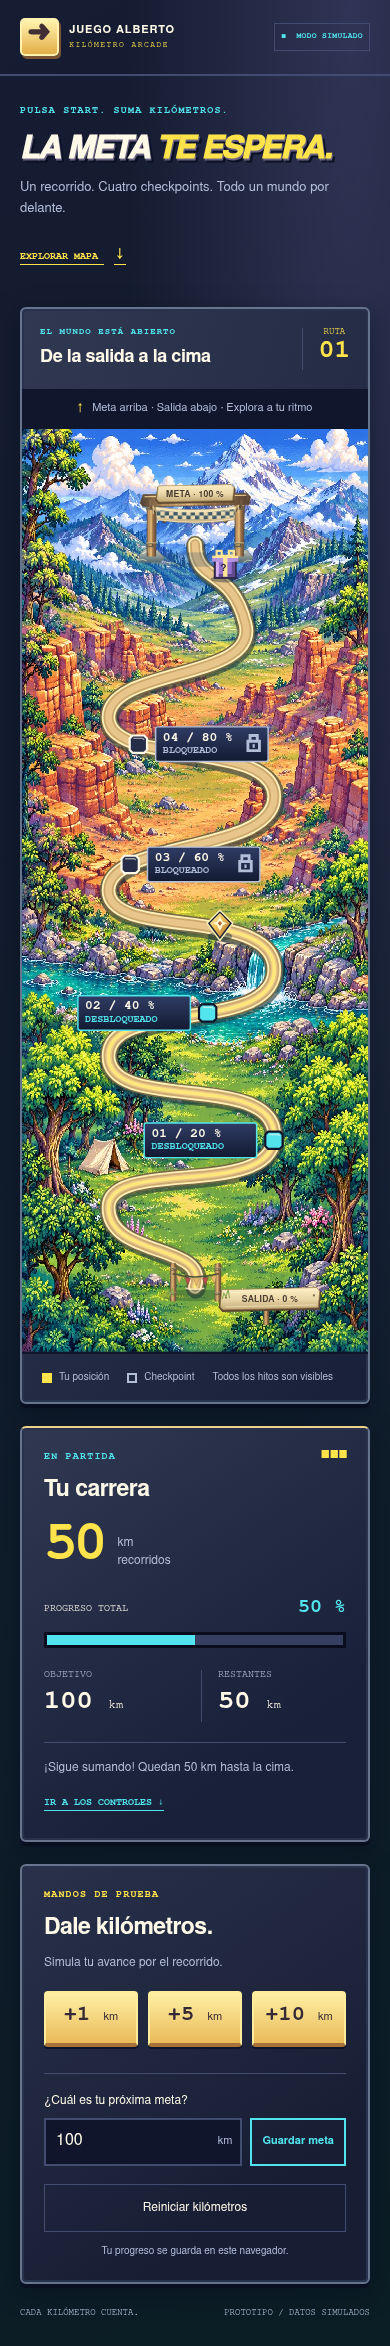
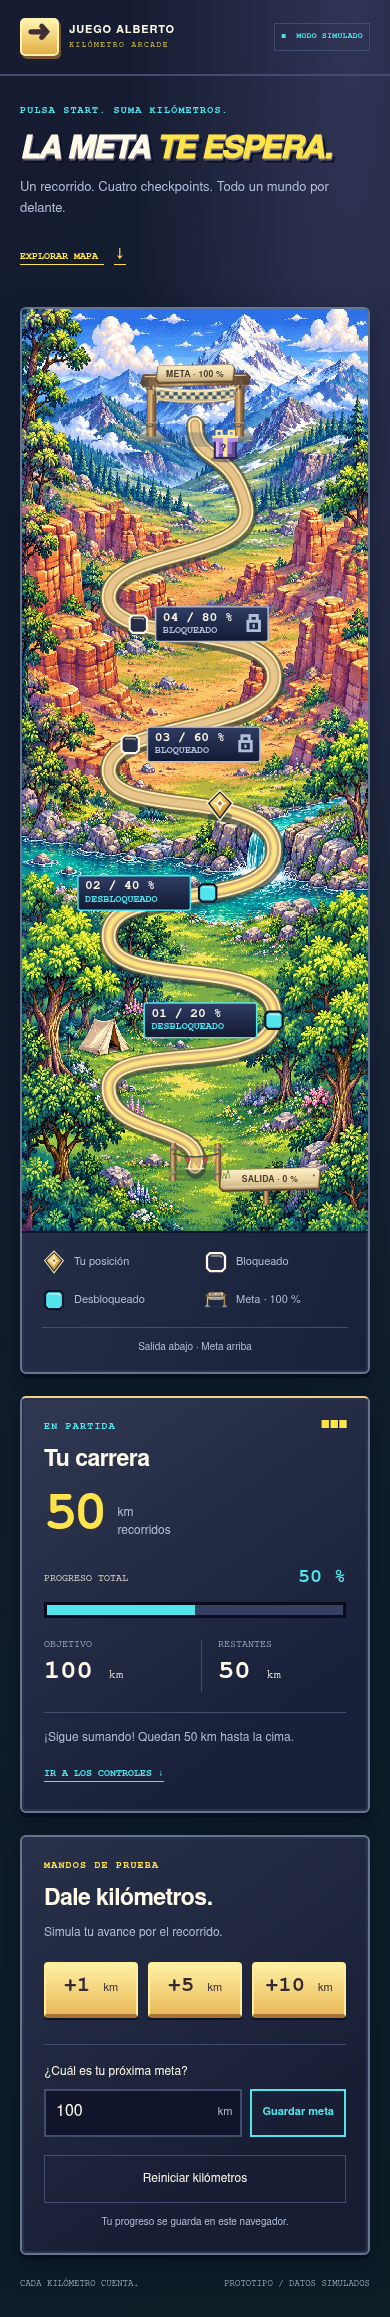
fix: remove map header and align legend with map symbols

diff --git a/frontend/index.html b/frontend/index.html
@@ -17,11 +17,9 @@
     <span class="mode"><span aria-hidden="true">■</span> MODO SIMULADO</span>
   </header>
   <main id="adventure" tabindex="-1">
-    <div class="intro"><div><p class="eyebrow">PULSA START. SUMA KILÓMETROS.</p><h1>LA META <span>TE ESPERA.</span></h1><p>Un recorrido. Cuatro checkpoints. Todo un mundo por delante.</p></div><a class="explore-link" href="#map-heading">EXPLORAR MAPA <span aria-hidden="true">↓</span></a></div>
+    <div class="intro"><div><p class="eyebrow">PULSA START. SUMA KILÓMETROS.</p><h1>LA META <span>TE ESPERA.</span></h1><p>Un recorrido. Cuatro checkpoints. Todo un mundo por delante.</p></div><a class="explore-link" href="#map">EXPLORAR MAPA <span aria-hidden="true">↓</span></a></div>
     <div class="adventure-layout">
-      <section class="map-card" aria-labelledby="map-heading">
-        <div class="map-header"><div><p class="eyebrow">EL MUNDO ESTÁ ABIERTO</p><h2 id="map-heading" tabindex="-1">De la salida a la cima</h2></div><span class="map-badge">RUTA<br><strong>01</strong></span></div>
-        <div class="map-guide"><span aria-hidden="true">↑</span> Meta arriba · Salida abajo · Explora a tu ritmo</div>
+      <section id="map" class="map-card" aria-label="Mapa del recorrido" tabindex="-1">
         <svg class="map" viewBox="0 0 480 1280" role="img" aria-labelledby="map-title map-description">
           <title id="map-title">El mundo de Kilómetro Arcade</title>
           <desc id="map-description">Mapa vertical completo: salida en el bosque, río, cañón y montaña. Checkpoints al 20, 40, 60 y 80 por ciento y meta al 100 por ciento. El marcador indica tu posición; los hitos futuros están bloqueados.</desc>
@@ -36,6 +34,14 @@
             <pattern id="finish-weave" width="12" height="12" patternUnits="userSpaceOnUse"><rect width="12" height="12" fill="#e8d8af"/><path d="M0 0h6v6H0zM6 6h6v6H6z" fill="#405966"/><path d="M0 1h12M0 7h12" stroke="#fff5d6" stroke-opacity=".25" stroke-width=".7"/></pattern>
             <g id="timber-post"><path d="M-7 0 4-2 7 3 6 80H-7z" fill="url(#gate-timber)"/><path d="M-7 0 4-2 7 3 6 80H-7z" fill="url(#wood-grain)"/><path d="M-5 3v72" stroke="#f9d392" stroke-width="1" opacity=".65"/><path d="M-8 10H7m-15 4H7m-15 48H7m-15 4H7" stroke="#6a6350" stroke-width="2"/><path d="M-8 9H6m-14 52H6" stroke="#e1cf99" stroke-width="1"/><circle cx="1" cy="12" r="1" fill="#403a32"/><circle cx="1" cy="64" r="1" fill="#403a32"/></g>
             <g id="lock"><path d="M-5-3v-7H5v7M-8-2H8v13H-8z" fill="none" stroke="currentColor" stroke-width="4"/><path d="M0 2v5" stroke="currentColor" stroke-width="3"/></g>
+            <g id="position-symbol">
+              <ellipse cy="10" rx="17" ry="6" fill="#102c32" opacity=".45"/>
+              <path d="M0-26 18-8 0 16-18-8Z" fill="#182039" stroke="#fff2b5" stroke-width="2"/>
+              <path d="M0-22 14-8 0 11-14-8Z" fill="url(#gold-metal)"/>
+              <path d="M0-17 4-10 10-8 4-5 0 3-4-5-10-8-4-10Z" fill="#fff8d3"/>
+              <path d="M0-11 3-8 0-4-3-8Z" fill="#b06b38"/>
+            </g>
+            <g id="checkpoint-symbol"><path class="checkpoint-node" d="M-8-12H8l4 4V8l-4 4H-8l-4-4V-8z"/><path d="M-7-8H6l2 2" fill="none" stroke="#fff9e8" stroke-opacity=".55" stroke-width="2"/></g>
           </defs>
           <image href="./assets/world-16bit.webp" width="480" height="1280" preserveAspectRatio="none" aria-hidden="true"/>
           <g fill="none" stroke-linejoin="round" stroke-linecap="round" aria-hidden="true">
@@ -100,21 +106,23 @@
             </g>
           </g>
           <g id="checkpoints">
-            <g data-checkpoint="0.2" class="checkpoint"><path class="checkpoint-node" d="M-8-12H8l4 4V8l-4 4H-8l-4-4V-8z"/><path d="M-7-8H6l2 2" fill="none" stroke="#fff9e8" stroke-opacity=".55" stroke-width="2"/><g class="checkpoint-label"><rect width="156" height="48"/><text x="10" y="19">01 / 20 %</text><text class="checkpoint-state" x="10" y="36">BLOQUEADO</text><g class="checkpoint-lock" transform="translate(136 22)"><use href="#lock"/></g></g></g>
-            <g data-checkpoint="0.4" class="checkpoint"><path class="checkpoint-node" d="M-8-12H8l4 4V8l-4 4H-8l-4-4V-8z"/><path d="M-7-8H6l2 2" fill="none" stroke="#fff9e8" stroke-opacity=".55" stroke-width="2"/><g class="checkpoint-label"><rect width="156" height="48"/><text x="10" y="19">02 / 40 %</text><text class="checkpoint-state" x="10" y="36">BLOQUEADO</text><g class="checkpoint-lock" transform="translate(136 22)"><use href="#lock"/></g></g></g>
-            <g data-checkpoint="0.6" class="checkpoint"><path class="checkpoint-node" d="M-8-12H8l4 4V8l-4 4H-8l-4-4V-8z"/><path d="M-7-8H6l2 2" fill="none" stroke="#fff9e8" stroke-opacity=".55" stroke-width="2"/><g class="checkpoint-label"><rect width="156" height="48"/><text x="10" y="19">03 / 60 %</text><text class="checkpoint-state" x="10" y="36">BLOQUEADO</text><g class="checkpoint-lock" transform="translate(136 22)"><use href="#lock"/></g></g></g>
-            <g data-checkpoint="0.8" class="checkpoint"><path class="checkpoint-node" d="M-8-12H8l4 4V8l-4 4H-8l-4-4V-8z"/><path d="M-7-8H6l2 2" fill="none" stroke="#fff9e8" stroke-opacity=".55" stroke-width="2"/><g class="checkpoint-label"><rect width="156" height="48"/><text x="10" y="19">04 / 80 %</text><text class="checkpoint-state" x="10" y="36">BLOQUEADO</text><g class="checkpoint-lock" transform="translate(136 22)"><use href="#lock"/></g></g></g>
+            <g data-checkpoint="0.2" class="checkpoint"><use href="#checkpoint-symbol"/><g class="checkpoint-label"><rect width="156" height="48"/><text x="10" y="19">01 / 20 %</text><text class="checkpoint-state" x="10" y="36">BLOQUEADO</text><g class="checkpoint-lock" transform="translate(136 22)"><use href="#lock"/></g></g></g>
+            <g data-checkpoint="0.4" class="checkpoint"><use href="#checkpoint-symbol"/><g class="checkpoint-label"><rect width="156" height="48"/><text x="10" y="19">02 / 40 %</text><text class="checkpoint-state" x="10" y="36">BLOQUEADO</text><g class="checkpoint-lock" transform="translate(136 22)"><use href="#lock"/></g></g></g>
+            <g data-checkpoint="0.6" class="checkpoint"><use href="#checkpoint-symbol"/><g class="checkpoint-label"><rect width="156" height="48"/><text x="10" y="19">03 / 60 %</text><text class="checkpoint-state" x="10" y="36">BLOQUEADO</text><g class="checkpoint-lock" transform="translate(136 22)"><use href="#lock"/></g></g></g>
+            <g data-checkpoint="0.8" class="checkpoint"><use href="#checkpoint-symbol"/><g class="checkpoint-label"><rect width="156" height="48"/><text x="10" y="19">04 / 80 %</text><text class="checkpoint-state" x="10" y="36">BLOQUEADO</text><g class="checkpoint-lock" transform="translate(136 22)"><use href="#lock"/></g></g></g>
           </g>
-          <g id="traveler" transform="translate(240 1190)" aria-hidden="true">
-            <ellipse cy="10" rx="17" ry="6" fill="#102c32" opacity=".45"/>
-            <path d="M0-26 18-8 0 16-18-8Z" fill="#182039" stroke="#fff2b5" stroke-width="2"/>
-            <path d="M0-22 14-8 0 11-14-8Z" fill="url(#gold-metal)"/>
-            <path d="M0-17 4-10 10-8 4-5 0 3-4-5-10-8-4-10Z" fill="#fff8d3"/>
-            <path d="M0-11 3-8 0-4-3-8Z" fill="#b06b38"/>
-          </g>
+          <g id="traveler" transform="translate(240 1190)" aria-hidden="true"><use href="#position-symbol"/></g>
         </svg>
         <ol id="milestone-summary" class="sr-only" aria-label="Estado de los hitos"><li data-milestone="0.2">Checkpoint 20 %: bloqueado.</li><li data-milestone="0.4">Checkpoint 40 %: bloqueado.</li><li data-milestone="0.6">Checkpoint 60 %: bloqueado.</li><li data-milestone="0.8">Checkpoint 80 %: bloqueado.</li><li data-milestone="1">Meta 100 %: pendiente.</li></ol>
-        <div class="map-footer"><span><i class="legend-marker" aria-hidden="true"></i> Tu posición</span><span><i class="legend-node" aria-hidden="true"></i> Checkpoint</span><span>Todos los hitos son visibles</span></div>
+        <div class="map-footer">
+          <ul class="map-legend" aria-label="Leyenda: posición, checkpoints y meta">
+            <li><svg class="legend-icon" viewBox="-22 -30 44 50" aria-hidden="true"><use href="#position-symbol"/></svg><span>Tu posición</span></li>
+            <li><svg class="legend-icon" viewBox="-16 -16 32 32" aria-hidden="true"><use href="#checkpoint-symbol"/></svg><span>Bloqueado</span></li>
+            <li><svg class="legend-icon legend-unlocked" viewBox="-16 -16 32 32" aria-hidden="true"><use href="#checkpoint-symbol"/></svg><span>Desbloqueado</span></li>
+            <li><svg class="legend-icon" viewBox="154 70 174 124" aria-hidden="true"><use href="#finish-gate"/></svg><span>Meta · 100 %</span></li>
+          </ul>
+          <p class="map-orientation">Salida abajo · Meta arriba</p>
+        </div>
       </section>
       <section class="progress-card" aria-labelledby="progress-heading">
         <div class="panel-heading"><p class="eyebrow">EN PARTIDA</p><span aria-hidden="true">■ ■ ■</span></div>

diff --git a/frontend/css/style.css b/frontend/css/style.css
@@ -58,30 +58,24 @@ progress::-moz-progress-bar { background: var(--cyan); }
 .journey-message { border-top: 1px solid var(--line); padding-top: 16px; margin: 20px 0 12px; color: var(--muted); font-size: 12px; line-height: 1.6; }
 .controls-link { display: inline-block; padding-block: 6px; color: var(--cyan); }
 .map-card { grid-area: map; background: linear-gradient(110deg, #303852, #192039); overflow: hidden; }
-.map-header { padding: 20px 22px; display: flex; justify-content: space-between; align-items: center; gap: 14px; }
-.map-header .eyebrow { font-size: 9px; margin-bottom: 6px; }
-.map-header h2 { font-size: 20px; }
-.map-badge { text-align: center; color: var(--yellow); border-left: 1px solid var(--line); padding-left: 16px; font: 9px ui-monospace, monospace; }
-.map-badge strong { font-size: 26px; }
-.map-guide { background: #10172d; text-align: center; padding: 12px 8px; color: var(--muted); font-size: 11px; line-height: 1.5; }
-.map-guide > span { color: var(--yellow); margin-right: 6px; }
 .map { display: block; width: 100%; height: auto; }
 .map image { image-rendering: pixelated; }
 .endpoint { fill: #493c30; font: 800 12px system-ui, sans-serif; letter-spacing: .3px; }
 .checkpoint { color: #b2bdd8; }
-.checkpoint-node { fill: #252d49; stroke: #fff9e8; stroke-width: 3px; }
+.checkpoint-node { fill: var(--checkpoint-fill, #252d49); stroke: var(--checkpoint-stroke, #fff9e8); stroke-width: 3px; }
 .checkpoint-label > rect { fill: url(#map-plate); stroke: #b2bdd8; stroke-width: 2px; rx: 3px; }
 .checkpoint-label text { fill: #fff9e8; font: bold 18px ui-monospace, monospace; }
 .checkpoint-label .checkpoint-state { fill: #b2bdd8; font-size: 14px; }
 .checkpoint.unlocked { color: #51e4ed; }
-.checkpoint.unlocked .checkpoint-node { fill: #51e4ed; stroke: #11152b; }
+.checkpoint.unlocked, .legend-unlocked { --checkpoint-fill: #51e4ed; --checkpoint-stroke: #11152b; }
 .checkpoint.unlocked .checkpoint-label > rect { stroke: #51e4ed; }
 .checkpoint.unlocked .checkpoint-state { fill: #51e4ed; }
 .checkpoint.unlocked .checkpoint-lock { display: none; }
-.map-footer { display: flex; flex-wrap: wrap; gap: 12px 18px; padding: 16px 20px; color: var(--muted); font-size: 10px; line-height: 1.6; border-top: 2px solid var(--ink); }
-.map-footer > span { display: inline-flex; align-items: center; gap: 7px; }
-.legend-marker, .legend-node { display: inline-block; width: 10px; height: 10px; background: var(--yellow); }
-.legend-node { background: transparent; border: 2px solid var(--muted); }
+.map-footer { padding: 16px 20px; color: var(--muted); font-size: 11px; line-height: 1.6; border-top: 2px solid var(--ink); }
+.map-legend { display: grid; grid-template-columns: repeat(2, minmax(0, 1fr)); gap: 12px 18px; list-style: none; margin: 0; padding: 0; }
+.map-legend li { display: flex; align-items: center; gap: 8px; }
+.legend-icon { display: block; width: 24px; height: 26px; flex-shrink: 0; }
+.map-orientation { border-top: 1px solid var(--line); padding-top: 12px; margin: 14px 0 0; text-align: center; font-size: 10px; }
 .simulation-card { grid-area: sim; padding: 24px; background: linear-gradient(145deg, #29314b, #171e34 75%); }
 .simulation-card .eyebrow { color: var(--yellow); }
 .hint { color: var(--muted); font-size: 12px; line-height: 1.6; margin: 10px 0 18px; }
@@ -116,8 +110,6 @@ form label { font-size: 12px; display: block; margin-bottom: 10px; }
   .progress-card, .simulation-card { padding: 22px; }
   .distance { margin: 18px 0; }
   .distance > span:first-child { font-size: 56px; }
-  .map-header { padding: 18px; }
-  .map-header h2 { font-size: 18px; }
   .site-footer { padding: 24px 20px; flex-wrap: wrap; gap: 8px; }
 }
 @media (max-width: 360px) {
@@ -126,9 +118,6 @@ form label { font-size: 12px; display: block; margin-bottom: 10px; }
   .mode span { display: none; }
   .brand { font-size: 10px; }
   .progress-card, .simulation-card { padding: 18px; }
-  .map-header { padding: 14px; }
-  .map-header h2 { font-size: 16px; }
-  .map-guide { font-size: 10px; }
 }
 @media (prefers-reduced-motion: reduce) {
   *, *::before, *::after { scroll-behavior: auto !important; animation: none !important; transition: none !important; }

diff --git a/README.md b/README.md
@@ -33,6 +33,9 @@ La dirección del proyecto es <https://albertoybelen.ddev.site/frontend/>.
   porcentaje y restantes. **Ir a los controles** salta directamente a la simulación.
 - **Explorar mapa** lleva al recorrido completo. La salida está abajo y la meta
   arriba: desplázate por bosque, río, cañón y montaña desde el primer día.
+- El paisaje aparece directamente, sin cabecera. La leyenda inferior reutiliza
+  los símbolos del mapa para posición, checkpoint bloqueado/desbloqueado y meta,
+  y recuerda la orientación del recorrido.
 - Los checkpoints del 20/40/60/80 % cambian de **BLOQUEADO** a **DESBLOQUEADO**
   al alcanzar su porcentaje. Sus posiciones se calculan sobre el mismo trazado
   que el indicador. Cambiar la meta o reiniciar recalcula todos sus estados.
